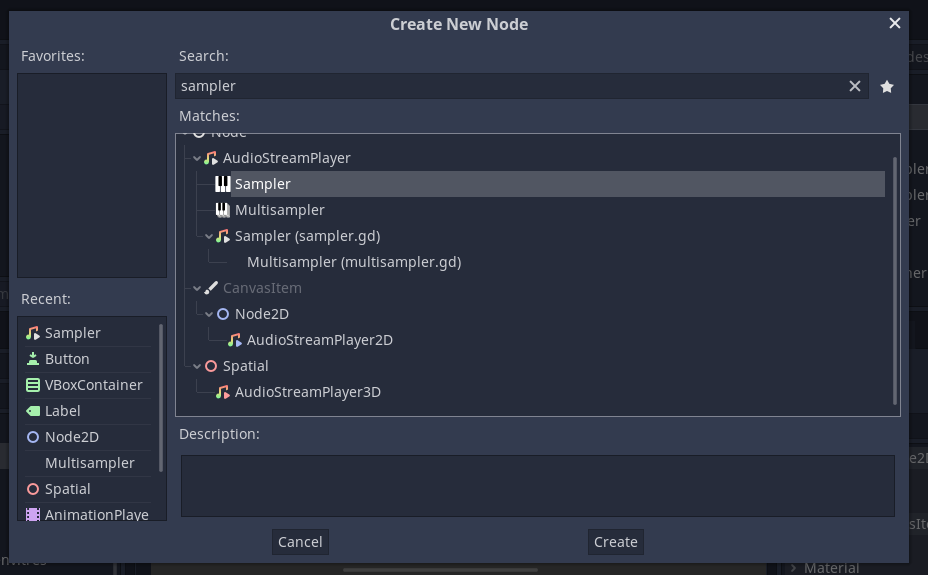
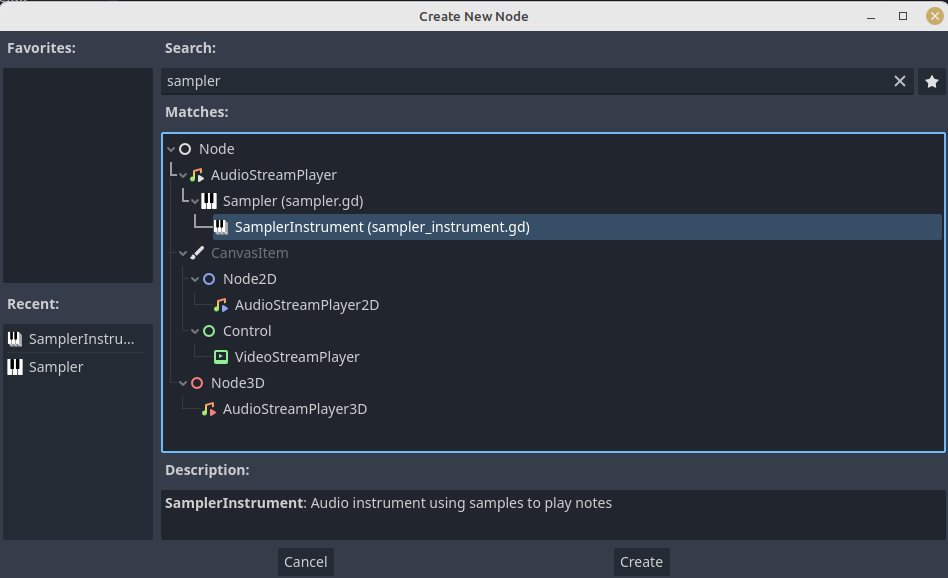
feat: rename multisampler into SamplerInstrument

diff --git a/README.md b/README.md
@@ -12,13 +12,13 @@ Copy the `addons/SimpleSampler` folder and put it in your project at the path `a
 
 ### Basics
 
-_SimpleSampler_ gives you access to two new Nodes: **Multisampler** and **Sampler**. For most of your projects, you should use _Multisampler_, as it allows to play several notes simultaneously. But if you know that it won't be the case, Sampler might slightly lighter. Both nodes share the same methods.
+_SimpleSampler_ gives you access to two new Nodes: **Sampler Instrument** and **Sampler**. For most of your projects, you should use _Sampler Instrument_, as it allows to play several notes simultaneously. But if you know that it won't be the case, Sampler might slightly lighter. Both nodes share the same methods.
 
 ![Add new sampler](doc/add-sampler.png)
 
 Samplers are musical instruments that take several sound samples as input, and can then play any note by calculating the sample to play and the pitch to apply.
 
-To configure a Sampler instrument, you need to register its note samples. For this, you must provide your own sound files (see the section below to know where you can find some). Each file must correspond to a single note. Of course, you don't need to have a file for every possible note (that would be too heavy)! Usually, having three samples per octave gives great results. Files can be single sounds, or loops, depending on how you import them. Samplers work well with .wav or .ogg!
+To configure a Sampler, you need to register its note samples. For this, you must provide your own sound files (see the section below to know where you can find some). Each file must correspond to a single note. Of course, you don't need to have a file for every possible note (that would be too heavy)! Usually, having three samples per octave gives great results. Files can be single sounds, or loops, depending on how you import them. Samplers work well with .wav or .ogg!
 
 Once you have your samples, you must add them to the Sampler, in the _samples_ array. _Simple Sampler_ provides a Resource to manage samples: **NoteSample**. Add one of them for each sample files you have.
 
@@ -52,7 +52,7 @@ sampler.release()
 
 ### Polyphony
 
-As said above, Multisampler are able to play several notes at the same time. This is useful for playing chords, but also for overlapping notes with long reverb or delay!
+As said above, SamplerInstruments are able to play several notes at the same time. This is useful for playing chords, but also for overlapping notes with long reverb or delay!
 
 The number of simultaneous note possible is not infinite though. The limit must be set on the parameter _Max Notes_. If you go beyond that number, the first note played will be replaced.
 
@@ -71,7 +71,7 @@ Calling `release` will release every currently playing note.
 
 ### Envelop
 
-_Sampler_ and _Multisampler_ have a simplified sound envelop system to customize the sound of the instrument. It consists of three parameters: _Attack_, _Sustain_ and _Release_. Their default value is -1, meaning that they are not active.
+_Sampler_ and _SamplerInstrument_ have a simplified sound envelop system to customize the sound of the instrument. It consists of three parameters: _Attack_, _Sustain_ and _Release_. Their default value is -1, meaning that they are not active.
 
 - _Attack_ is the length (in seconds) of a fade-in at the beginning of the sound. If negative, the sound will play immediately at its default volume.
 - _Sustain_ is the length (in seconds) of the sound after the attack. Once this delay is passed, it will automatically call `release`. If negative, the sound will play entirely or in loop.
@@ -105,4 +105,4 @@ There are multiple places on the web where you can find audio samples for all ki
 
 There are surely plenty other places where you can find or purchase great sound samples. You can also make your own! As you've seen, you don't actually need a lot of them to make a sampler. So you can use the musical tool of your choice, play a bunch of notes, and make your own sample files!
 
-Also, you can save and share your own samplers between projects (or even users!), either by saving _NoteSample_ resources, or a Godot scene with a _Sampler_ or _Multisampler_ as root.
+Also, you can save and share your own samplers between projects (or even users!), either by saving _NoteSample_ resources, or a Godot scene with a _Sampler_ or _SamplerInstrument_ as root.
